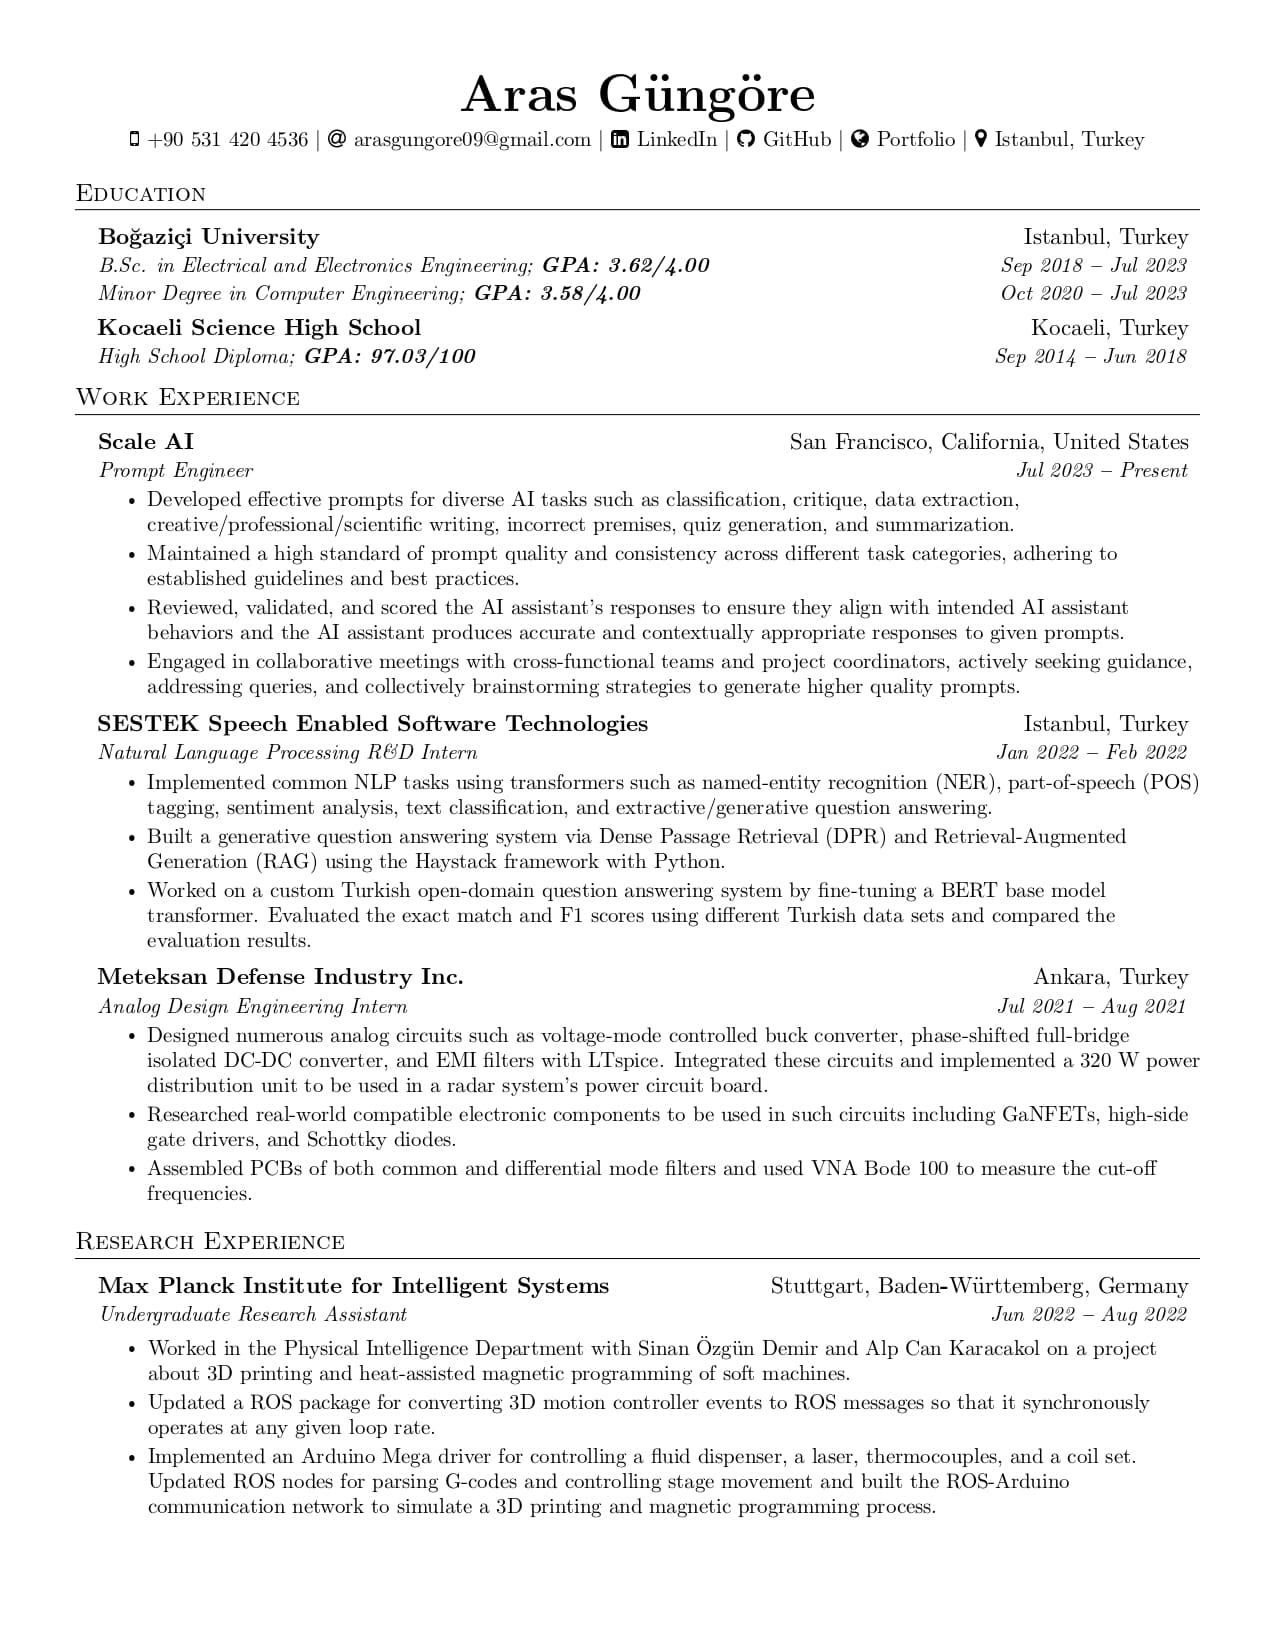
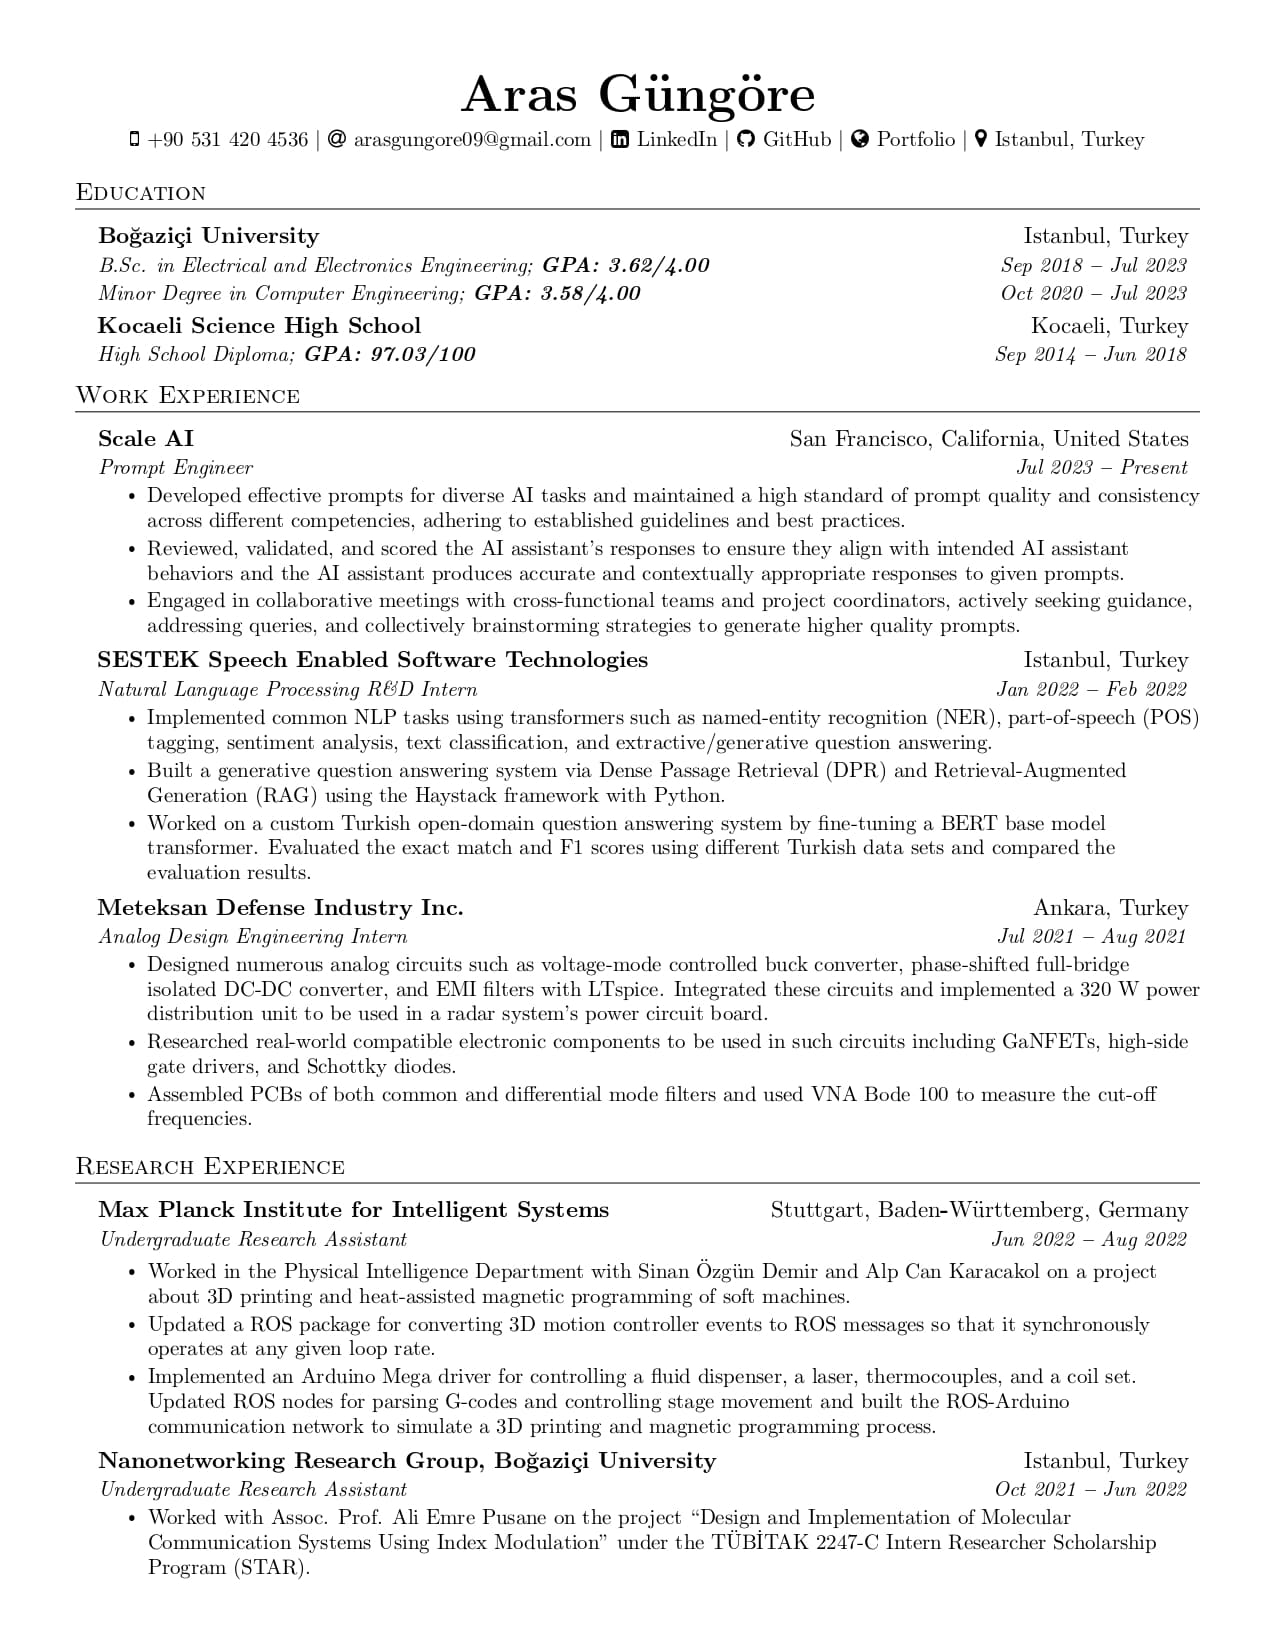
Updated CV

diff --git a/main.tex b/main.tex
@@ -186,8 +186,7 @@
       {Scale AI}{San Francisco, California, United States}
       {Prompt Engineer}{Jul 2023 \textbf{--} Present}
         \resumeItemListStart
-            \resumeItem{Developed effective prompts for diverse AI tasks such as classification, critique, data extraction, creative/professional/scientific writing, incorrect premises, quiz generation, and summarization.}
-            \resumeItem{Maintained a high standard of prompt quality and consistency across different task categories, adhering to established guidelines and best practices.}
+            \resumeItem{Developed effective prompts for diverse AI tasks and maintained a high standard of prompt quality and consistency across different competencies, adhering to established guidelines and best practices.}
             \resumeItem{Reviewed, validated, and scored the AI assistant's responses to ensure they align with intended AI assistant behaviors and the AI assistant produces accurate and contextually appropriate responses to given prompts.}
             \resumeItem{Engaged in collaborative meetings with cross-functional teams and project coordinators, actively seeking guidance, addressing queries, and collectively brainstorming strategies to generate higher quality prompts.}
         \resumeItemListEnd
@@ -238,7 +237,7 @@
             \resumeItem{Implemented an Arduino Mega driver for controlling a fluid dispenser, a laser, thermocouples, and a coil set. Updated ROS nodes for parsing G-codes and controlling stage movement and built the ROS-Arduino communication network to simulate a 3D printing and magnetic programming process.}
         \resumeItemListEnd
     
-    \vspace{14pt}
+    % \vspace{14pt}
     
     \resumeSubheading
       {Nanonetworking Research Group, Boğaziçi University}{Istanbul, Turkey}
@@ -348,15 +347,15 @@
 
 %----------- RELEVANT COURSEWORK -----------
 
-% \section{Relevant Coursework}
-  % \vspace{2pt}
-  % \resumeSubHeadingListStart
-    % \small{\item{
-        % \textbf{Major coursework:}{ Materials Science, Electrical Circuits I-II, Digital System Design, Numerical Methods, Probability Theory, Electronics I-II, Signals and Systems, Electromagnetic Field Theory, Energy Conversion, System Dynamics and Control, Communication Engineering, Pattern Recognition, Introduction to Digital Signal Processing, Introduction to Digital Communications, Introduction to Database Systems, Introduction to Image Processing, Machine Vision} \\ \vspace{3pt}
+\section{Relevant Coursework}
+  \vspace{2pt}
+  \resumeSubHeadingListStart
+    \small{\item{
+        \textbf{Major coursework:}{ Materials Science, Electrical Circuits I-II, Digital System Design, Numerical Methods, Probability Theory, Electronics I-II, Signals and Systems, Electromagnetic Field Theory, Energy Conversion, System Dynamics and Control, Communication Engineering, Pattern Recognition, Introduction to Digital Signal Processing, Introduction to Digital Communications, Introduction to Database Systems, Introduction to Image Processing, Machine Vision} \\ \vspace{3pt}
         
-        % \textbf{Minor coursework:}{ Discrete Computational Structures, Introduction to Object-Oriented Programming, Data Structures and Algorithms, Computer Organization, Fundamentals of Software Engineering}
-    % }}
-  % \resumeSubHeadingListEnd
+        \textbf{Minor coursework:}{ Discrete Computational Structures, Introduction to Object-Oriented Programming, Data Structures and Algorithms, Computer Organization, Fundamentals of Software Engineering}
+    }}
+  \resumeSubHeadingListEnd
 
 
 
